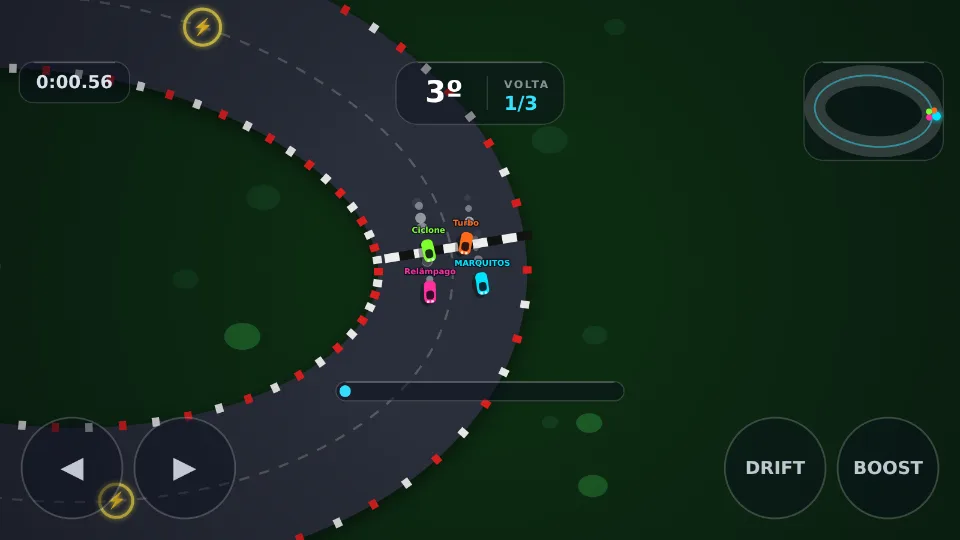
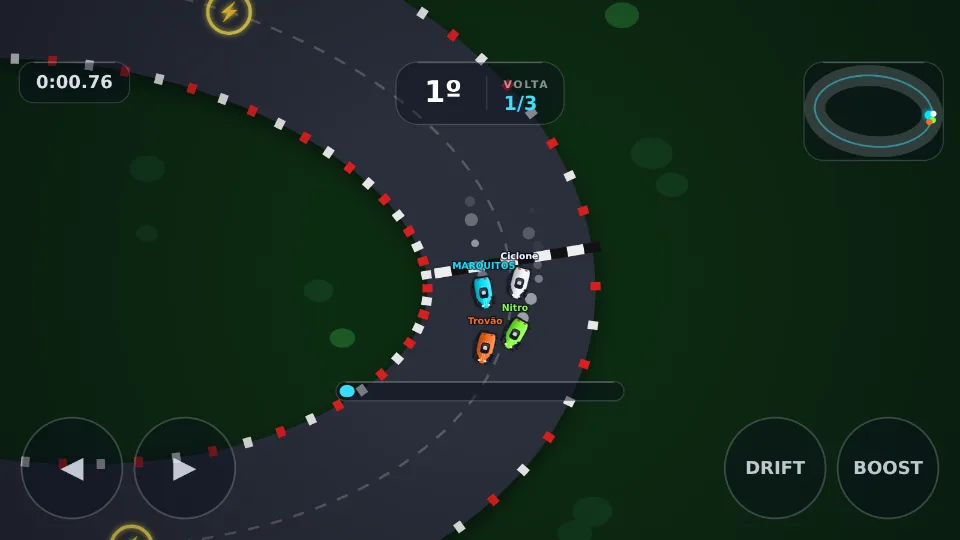
Pixel Racing: carros maiores, com mais detalhe, e câmara mais perto
Três afinações, todas no `config.js`:

- Carro de 30x16 para 38x20 unidades do mundo (+27%), com o raio de
  colisão a acompanhar (14 -> 17). Mexer no tamanho sem mexer no raio
  daria carros que se encostam sem se tocarem, ou que embatem no ar.
- Grelha de partida com as filas 66 unidades afastadas em vez de 55: com
  carros mais compridos, as duas filas tocavam-se.
- Zoom de 0.62 para 0.70. Com o carro maior, o conjunto fica ~40% maior
  no ecrã sem a pista deixar de se ler à frente do carro.

O carro deixa de ser um retângulo com uma janela. Passa a ter silhueta de
carro de corrida vista de cima — bico afilado, ombros largos, traseira
quadrada — com quatro rodas (as da frente viram com a direção), asas à
frente e atrás, habitáculo com capacete e viseira, riscas no capô,
espelhos, faróis, e farolins que acendem a travar. O volume vem de um
gradiente branco/preto por cima da cor, e não de aclarar o hex: assim
funciona com qualquer cor que o jogador escolha. A chama do boost passa a
ser um gradiente que esmorece em vez de um triângulo.

O corpo passa a ser desenhado segundo `facing` (para onde o carro aponta)
e não `velAngle` (para onde anda). São a mesma coisa em condução normal e
separam-se em drift — que é precisamente o que se quer ver de fora: o
carro atravessado na curva. A chama continua alinhada com `velAngle`,
que é por onde o escape empurra.

Todas as medidas do desenho são frações de `CAR_LEN`/`CAR_W`, por isso a
[…]

diff --git a/src/MarquitosArcade/wwwroot/games/pixel-racing/js/render.js b/src/MarquitosArcade/wwwroot/games/pixel-racing/js/render.js
@@ -254,38 +254,168 @@ function drawTrack() {
 function drawCars() {
     const sorted = [...race.cars].sort((a, b) => a.y - b.y);
     for (const car of sorted) {
-        ctx.save();
-        ctx.translate(car.x, car.y);
-        const speedFrac = clamp(car.speed / MAX_SPEED, 0, 1.4);
-        const lean = clamp(car.steerInput * Math.min(1, speedFrac) * 0.12, -0.14, 0.14);
-        ctx.rotate(car.velAngle);
-
-        ctx.fillStyle = 'rgba(0,0,0,0.35)';
-        ctx.beginPath(); ctx.ellipse(3, 5, CAR_LEN * 0.55, CAR_W * 0.55, 0, 0, Math.PI * 2); ctx.fill();
-
-        ctx.transform(1, 0, lean, 1, 0, 0);
-        ctx.fillStyle = car.color;
-        rrect(-CAR_LEN / 2, -CAR_W / 2, CAR_LEN, CAR_W, 6);
-        ctx.fill();
-
-        ctx.fillStyle = 'rgba(8,8,16,0.85)';
-        rrect(-CAR_LEN * 0.06, -CAR_W * 0.32, CAR_LEN * 0.4, CAR_W * 0.64, 4);
-        ctx.fill();
-
-        ctx.fillStyle = 'rgba(255,255,255,0.85)';
-        ctx.fillRect(CAR_LEN * 0.38, -CAR_W * 0.28, 3, CAR_W * 0.2);
-        ctx.fillRect(CAR_LEN * 0.38, CAR_W * 0.08, 3, CAR_W * 0.2);
-
-        if (car.boostHold && car.boost > 0) {
-            ctx.fillStyle = 'rgba(255,120,20,0.9)';
-            ctx.beginPath();
-            ctx.moveTo(-CAR_LEN / 2, -4); ctx.lineTo(-CAR_LEN / 2 - 14 - Math.random() * 6, 0); ctx.lineTo(-CAR_LEN / 2, 4);
-            ctx.fill();
-        }
-        ctx.restore();
-
+        drawCar(car);
         drawNameTag(car);
     }
+}
+
+/**
+ * Silhueta do carro vista de cima: bico afilado, ombros largos e traseira
+ * quadrada. Tudo em frações de `CAR_LEN`/`CAR_W`, por isso mudar o tamanho do
+ * carro no config não obriga a redesenhar nada aqui.
+ */
+function carBodyPath(L, W) {
+    const hw = W / 2;
+    ctx.beginPath();
+    ctx.moveTo(L * 0.50, -hw * 0.3);
+    ctx.quadraticCurveTo(L * 0.52, 0, L * 0.50, hw * 0.3);
+    ctx.lineTo(L * 0.44, hw * 0.36);
+    ctx.quadraticCurveTo(L * 0.30, hw * 0.5, L * 0.22, hw * 0.86);
+    ctx.lineTo(L * 0.1, hw);
+    ctx.lineTo(-L * 0.26, hw);
+    ctx.quadraticCurveTo(-L * 0.45, hw * 0.94, -L * 0.47, hw * 0.72);
+    ctx.lineTo(-L * 0.47, -hw * 0.72);
+    ctx.quadraticCurveTo(-L * 0.45, -hw * 0.94, -L * 0.26, -hw);
+    ctx.lineTo(L * 0.1, -hw);
+    ctx.lineTo(L * 0.22, -hw * 0.86);
+    ctx.quadraticCurveTo(L * 0.30, -hw * 0.5, L * 0.44, -hw * 0.36);
+    ctx.closePath();
+}
+
+function drawWheel(x, y, L, W, steer) {
+    ctx.save();
+    ctx.translate(x, y);
+    ctx.rotate(steer);
+    ctx.fillStyle = '#14161f';
+    rrect(-L * 0.12, -W * 0.11, L * 0.24, W * 0.22, W * 0.07);
+    ctx.fill();
+    // Risco claro no topo do pneu: sem ele a roda desaparece contra o asfalto.
+    ctx.fillStyle = 'rgba(255, 255, 255, 0.14)';
+    rrect(-L * 0.09, -W * 0.09, L * 0.18, W * 0.06, W * 0.03);
+    ctx.fill();
+    ctx.restore();
+}
+
+function drawCar(car) {
+    const L = CAR_LEN, W = CAR_W, hw = W / 2;
+    const speedFrac = clamp(car.speed / MAX_SPEED, 0, 1.4);
+    const lean = clamp(car.steerInput * Math.min(1, speedFrac) * 0.1, -0.12, 0.12);
+    const steer = car.steerInput * 0.38;
+
+    ctx.save();
+    ctx.translate(car.x, car.y);
+
+    // O carro aponta para onde está virado (`facing`), não para onde anda
+    // (`velAngle`): é essa diferença que faz a derrapagem ver-se de fora.
+    ctx.rotate(car.facing);
+
+    ctx.fillStyle = 'rgba(0, 0, 0, 0.32)';
+    ctx.beginPath();
+    ctx.ellipse(-1, 4, L * 0.52, W * 0.56, 0, 0, Math.PI * 2);
+    ctx.fill();
+
+    drawWheel(L * 0.28, -hw * 1.02, L, W, steer);
+    drawWheel(L * 0.28, hw * 1.02, L, W, steer);
+    drawWheel(-L * 0.28, -hw * 1.02, L, W, 0);
+    drawWheel(-L * 0.28, hw * 1.02, L, W, 0);
+
+    // Asas, por baixo do corpo para só assomarem as pontas.
+    ctx.fillStyle = '#1b1f2b';
+    rrect(-L * 0.52, -hw * 1.06, L * 0.1, W * 1.06, 2);
+    ctx.fill();
+    rrect(L * 0.44, -hw * 0.86, L * 0.07, W * 0.86, 2);
+    ctx.fill();
+
+    ctx.transform(1, 0, lean, 1, 0, 0);
+
+    carBodyPath(L, W);
+    ctx.fillStyle = car.color;
+    ctx.fill();
+
+    // Volume: luz vinda de cima-esquerda do ecrã, sombra do lado oposto. Feito
+    // com branco e preto por cima da cor, em vez de aclarar/escurecer o hex —
+    // assim funciona com qualquer cor que o jogador escolha.
+    ctx.save();
+    ctx.clip();
+    const shade = ctx.createLinearGradient(0, -hw, 0, hw);
+    shade.addColorStop(0, 'rgba(255, 255, 255, 0.34)');
+    shade.addColorStop(0.42, 'rgba(255, 255, 255, 0.04)');
+    shade.addColorStop(0.62, 'rgba(0, 0, 0, 0.08)');
+    shade.addColorStop(1, 'rgba(0, 0, 0, 0.3)');
+    ctx.fillStyle = shade;
+    ctx.fillRect(-L, -hw, L * 2, W);
+
+    // Riscas do capô, do bico até à traseira.
+    ctx.fillStyle = 'rgba(255, 255, 255, 0.5)';
+    ctx.fillRect(-L * 0.2, -W * 0.09, L * 0.62, W * 0.05);
+    ctx.fillRect(-L * 0.2, W * 0.04, L * 0.62, W * 0.05);
+    ctx.restore();
+
+    ctx.lineWidth = 1.1;
+    ctx.strokeStyle = 'rgba(6, 9, 20, 0.55)';
+    carBodyPath(L, W);
+    ctx.stroke();
+
+    // Habitáculo e capacete do piloto.
+    ctx.fillStyle = 'rgba(10, 13, 24, 0.92)';
+    rrect(-L * 0.16, -W * 0.26, L * 0.34, W * 0.52, W * 0.16);
+    ctx.fill();
+    ctx.fillStyle = 'rgba(255, 255, 255, 0.16)';
+    rrect(-L * 0.13, -W * 0.21, L * 0.12, W * 0.42, W * 0.12);
+    ctx.fill();
+    ctx.fillStyle = 'rgba(236, 242, 255, 0.85)';
+    ctx.beginPath();
+    ctx.arc(L * 0.01, 0, W * 0.13, 0, Math.PI * 2);
+    ctx.fill();
+    ctx.fillStyle = 'rgba(12, 16, 28, 0.75)';
+    ctx.beginPath();
+    ctx.arc(L * 0.04, 0, W * 0.13, -Math.PI * 0.42, Math.PI * 0.42);
+    ctx.fill();
+
+    // Espelhos.
+    ctx.fillStyle = '#1b1f2b';
+    ctx.fillRect(L * 0.16, -hw * 0.92, L * 0.06, W * 0.1);
+    ctx.fillRect(L * 0.16, hw * 0.82, L * 0.06, W * 0.1);
+
+    // Faróis à frente; farolins atrás, vermelhos e acesos a travar.
+    ctx.fillStyle = 'rgba(255, 249, 224, 0.9)';
+    rrect(L * 0.38, -W * 0.26, L * 0.07, W * 0.16, 1.5);
+    ctx.fill();
+    rrect(L * 0.38, W * 0.1, L * 0.07, W * 0.16, 1.5);
+    ctx.fill();
+
+    const braking = car.brakeHeld && car.speed > 0;
+    ctx.fillStyle = braking ? '#ff4438' : 'rgba(190, 46, 40, 0.8)';
+    if (braking) { ctx.shadowColor = '#ff4438'; ctx.shadowBlur = 10; }
+    rrect(-L * 0.45, -W * 0.3, L * 0.05, W * 0.18, 1.5);
+    ctx.fill();
+    rrect(-L * 0.45, W * 0.12, L * 0.05, W * 0.18, 1.5);
+    ctx.fill();
+    ctx.shadowBlur = 0;
+
+    ctx.restore();
+
+    if (car.boostHold && car.boost > 0) drawBoostFlame(car, L, W);
+}
+
+/** Chama do boost: sai pelo escape, na direção contrária ao andamento. */
+function drawBoostFlame(car, L, W) {
+    ctx.save();
+    ctx.translate(car.x, car.y);
+    ctx.rotate(car.velAngle);
+    const len = L * 0.5 + Math.random() * L * 0.3;
+    const flame = ctx.createLinearGradient(-L * 0.45, 0, -L * 0.45 - len, 0);
+    flame.addColorStop(0, 'rgba(255, 240, 180, 0.95)');
+    flame.addColorStop(0.4, 'rgba(255, 140, 40, 0.75)');
+    flame.addColorStop(1, 'rgba(255, 60, 30, 0)');
+    ctx.fillStyle = flame;
+    ctx.beginPath();
+    ctx.moveTo(-L * 0.45, -W * 0.28);
+    ctx.quadraticCurveTo(-L * 0.45 - len * 0.6, -W * 0.16, -L * 0.45 - len, 0);
+    ctx.quadraticCurveTo(-L * 0.45 - len * 0.6, W * 0.16, -L * 0.45, W * 0.28);
+    ctx.closePath();
+    ctx.fill();
+    ctx.restore();
 }
 
 function drawNameTag(car) {

diff --git a/src/MarquitosArcade/wwwroot/games/pixel-racing/js/config.js b/src/MarquitosArcade/wwwroot/games/pixel-racing/js/config.js
@@ -44,7 +44,13 @@ export const MODE_TOURNAMENT = 'tournament';
 export const TOURNAMENT_TRACKS = [0, 1, 2];
 
 export const LAPS_REQUIRED = 3;
-export const CAR_LEN = 30, CAR_W = 16, CAR_RADIUS = 14;
+/**
+ * Tamanho do carro em unidades do mundo. `CAR_RADIUS` é o raio usado nas
+ * colisões (com as paredes e entre carros) e anda de mãos dadas com os outros
+ * dois: mexer no comprimento sem mexer no raio dá carros que se encostam sem se
+ * tocarem, ou que embatem no ar.
+ */
+export const CAR_LEN = 38, CAR_W = 20, CAR_RADIUS = 17;
 export const MAX_SPEED = 380;
 export const BOOST_MULT = 1.5;
 export const ACCEL = 320;
@@ -57,5 +63,6 @@ export const DRIFT_MIN_SPEED = 80;
 export const BOOST_DRAIN = 42, BOOST_REGEN = 7;
 export const DRIFT_CHARGE_RATE = 60, DRIFT_TO_BOOST = 0.7, DRIFT_PERFECT = 60;
 export const CAM_FOLLOW = 6;
-export const ZOOM = 0.62;
+/** Aproximação da câmara. Quanto maior, mais perto da ação e menos pista à vista. */
+export const ZOOM = 0.7;
 export const RACE_POINTS = [30, 20, 12, 6];

diff --git a/src/MarquitosArcade/wwwroot/games/pixel-racing/js/race.js b/src/MarquitosArcade/wwwroot/games/pixel-racing/js/race.js
@@ -18,9 +18,11 @@ export function startRace(trackIdx) {
     race.player = race.cars[0];
     for (const c of race.cars) if (c.key !== 'player') c.ai = makePersonality();
 
+    // Duas filas de dois. A distância entre filas acompanha o comprimento do
+    // carro: com carros maiores, 55 unidades deixavam as filas a tocar-se.
     const gridOffsets = shuffle([
-        { back: 0, side: -34 }, { back: 0, side: 34 },
-        { back: 55, side: -34 }, { back: 55, side: 34 }
+        { back: 0, side: -36 }, { back: 0, side: 36 },
+        { back: 66, side: -36 }, { back: 66, side: 36 }
     ]);
     const p0 = race.track.pts[0], t0 = race.track.tang[0], n0 = race.track.norm[0];
     race.cars.forEach((car, i) => {
